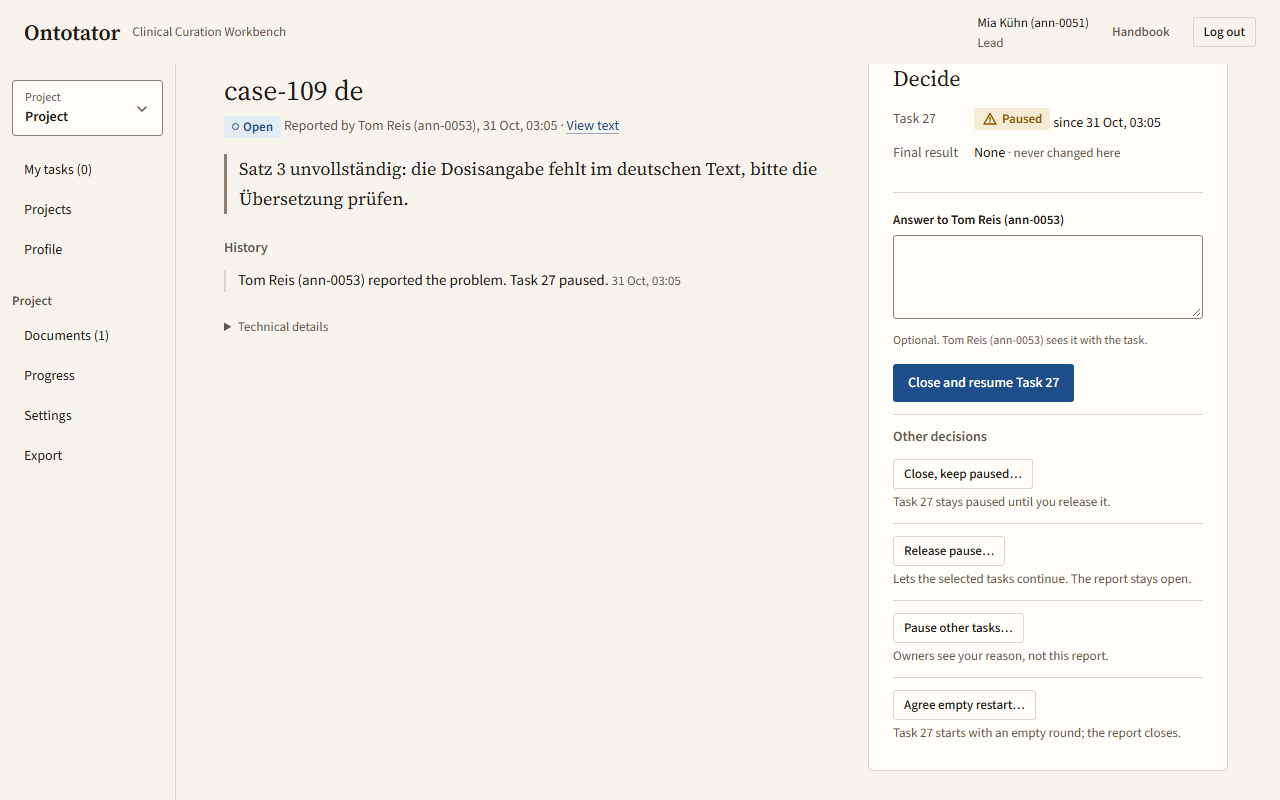
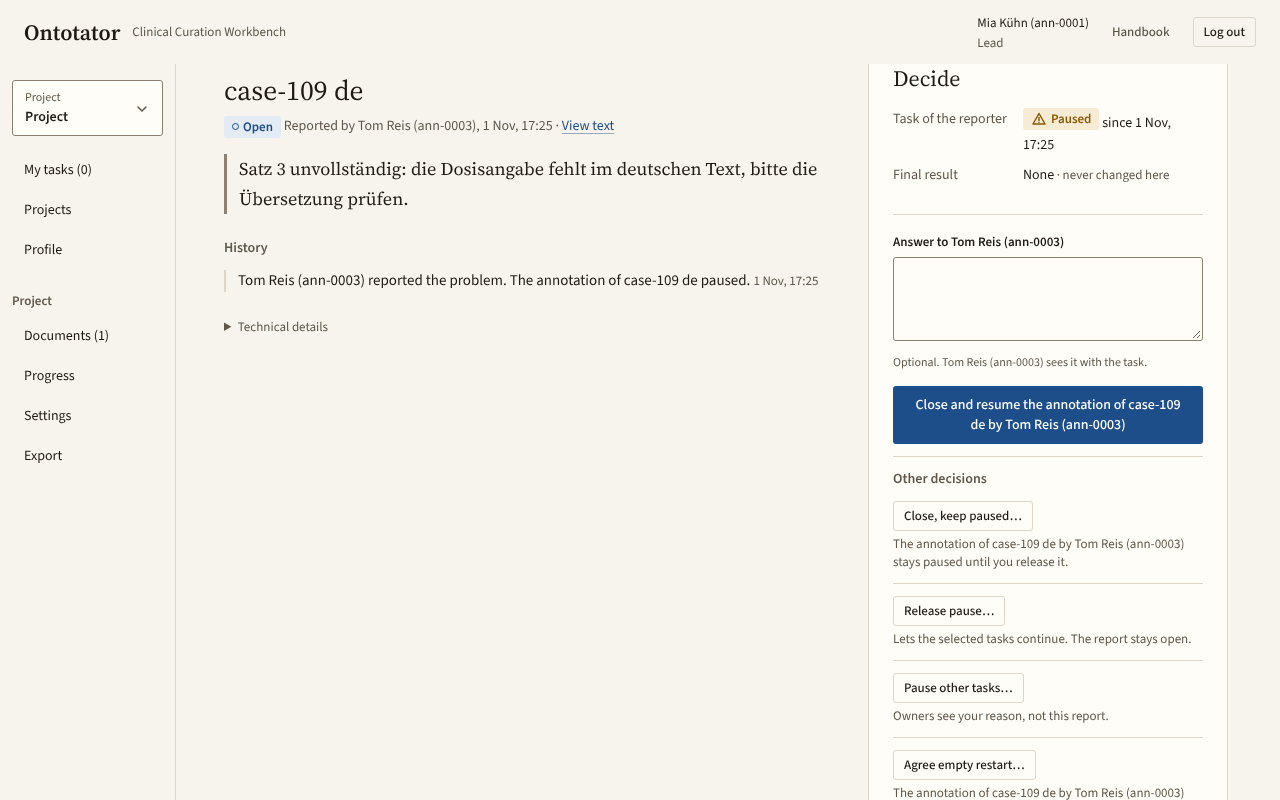
test(handbook): problem report walk names the task by text; refresh its image
Handbook: unchanged

Claude-Session: https://claude.ai/code/session_01DuTmFwNVVtZwP5FB3Y4NFc

diff --git a/frontend/browser/handbook-screenshots.spec.ts b/frontend/browser/handbook-screenshots.spec.ts
@@ -506,7 +506,7 @@ test.describe("lead.md", () => {
     await page.goto(`/#/projects/${encodeURIComponent(s.project)}/problem-reports/${encodeURIComponent(s.report_id!)}?section=decide`);
     await expect(page.getByText(s.report_reason!).first()).toBeVisible();
     await expect(page.getByText(/Loading…/)).toHaveCount(0);
-    const resume = page.getByRole("button", { name: /^Close and resume Task \d+$/ });
+    const resume = page.getByRole("button", { name: /^Close and resume the annotation of / });
     await expect(resume).toBeVisible();
     await expect(page.getByRole("heading", { name: "Other decisions", exact: true })).toBeVisible();
     await shot(page, "lead-problem-report");
